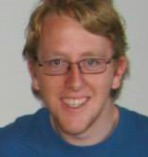
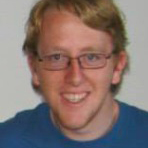
made all images square

diff --git a/views/members.html b/views/members.html
@@ -1,13 +1,12 @@
 <div class='page' id='members'>
 	<h3 class="title">Current Leadership</h2>
 	<div class='member-container'>
-		<div class="clearfix container" ng-repeat='officer in officers'>
+		<div style="height:170px" class="clearfix container" ng-repeat='officer in officers'>
 			<h4><span ng-bind='officer.position'></span>: <span ng-bind='officer.name'></span></h4>
 			<div class='left'>
 				<img width='100em' src='{{officer.img}}'></img>
 			</div>
 			<p class='right' ng-bind='officer.bio'></p>
-			<br>
 		</div>
 	</div>
 	<h3>How do I get involved?</h3>
